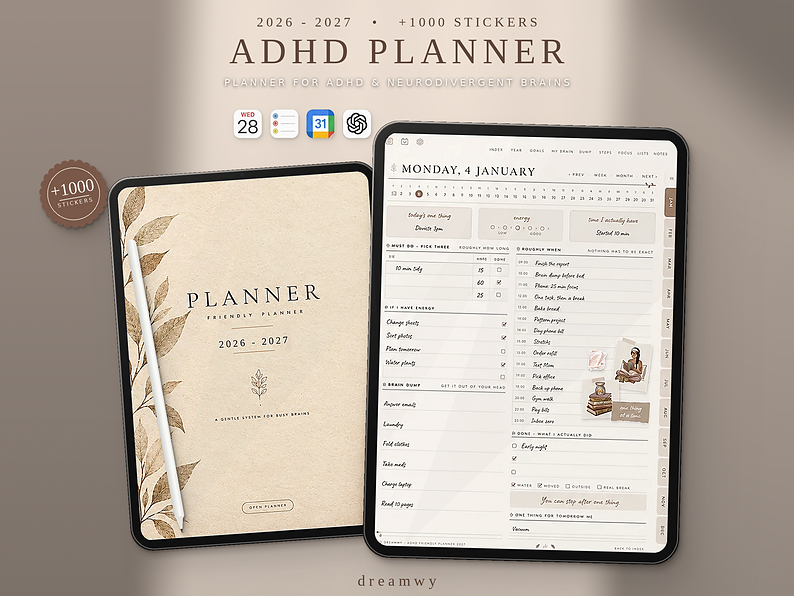
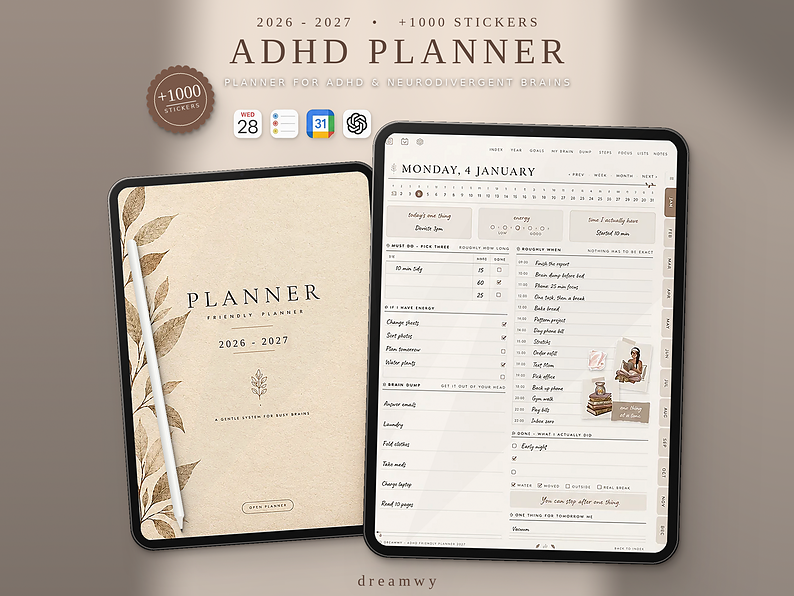
ADHD mockup: sticker badge at top-left like the other planners
Claude-Session: https://claude.ai/code/session_015ZGVvYxuW9E1f2kNKHXQzt

Changed region(s): [[0.0302, 0.2718, 0.1511, 0.3926], [0.1814, 0.0906, 0.272, 0.2416]]

diff --git a/mockup/make_mockup.py b/mockup/make_mockup.py
@@ -265,7 +265,7 @@ def sparkle(d, n, col=(214, 168, 84)):
 
 
 # "+1000 STICKERS" seal
-sx, sy, sr = 222, 585, 97
+sx, sy, sr = 545, 300, 97
 seal = Image.new("RGBA", (sr * 2 + 40, sr * 2 + 40), (0, 0, 0, 0))
 sd = ImageDraw.Draw(seal)
 sc = sr + 20
